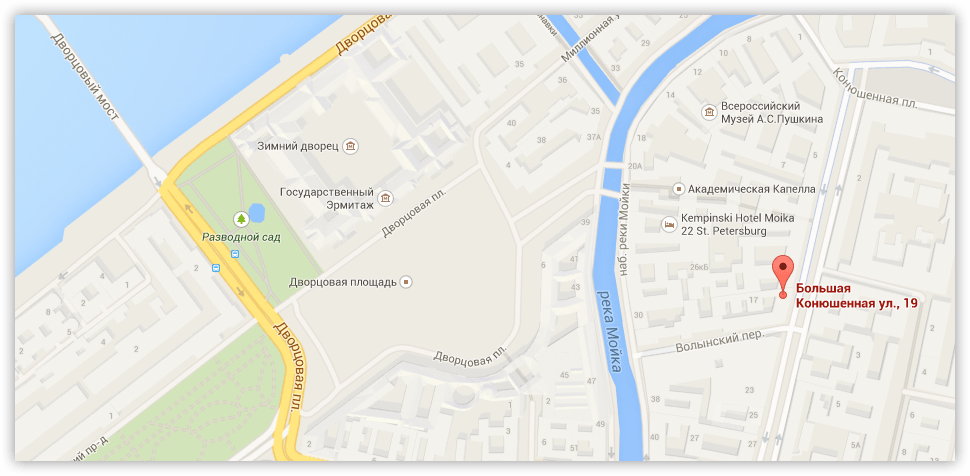
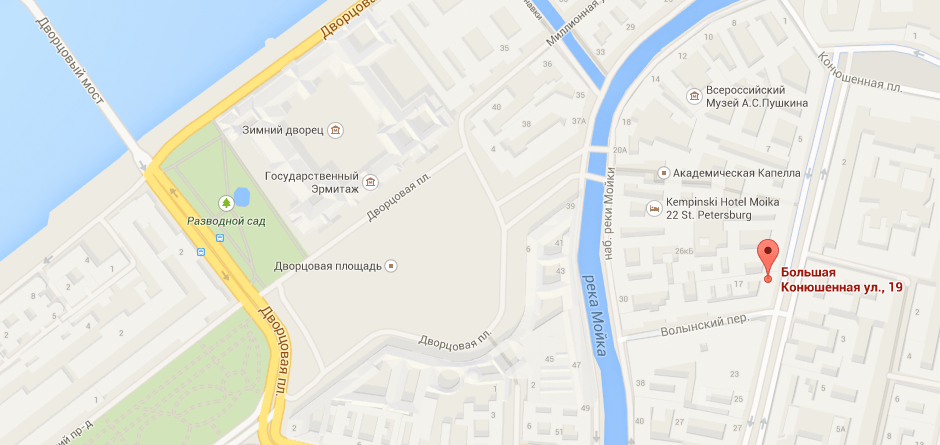
Модальные окна

diff --git a/index.html b/index.html
@@ -403,25 +403,29 @@
 		</footer>
 		<section class="modal modal-callback">	<!--Форма обратной связи-->
 			<h2 class="visually-hidden">Напишите нам</h2>
-			<form action="" method="post">		
-			
-				<label for="callback-name">Ваше имя:</label>
-				<input id="callback-name" type="text" name="name" value="" placeholder="Имя Фамилия"/>
-
-				<label for="callback-email">Ваш e-mail:</label>
-				<input id="callback-email" type="email" name="email" value="" placeholder="email@example.com"/>
-
-				<label for="callback-text">Текст письма:</label>
-				<textarea id="callback-text"  type="text" name="message" value="" placeholder="В свободной форме"/></textarea>				
-				
-				<button type="submit">Отправить</button>
+			<form class="callback-form" action="" method="post">		
+				<div>
+					<label for="callback-name">Ваше имя:</label>
+					<input id="callback-name" type="text" name="name" value="" placeholder="Имя Фамилия"/>
+				</div>
+				<div>
+					<label for="callback-email">Ваш e-mail:</label>
+					<input id="callback-email" type="email" name="email" value="" placeholder="email@example.com"/>
+				</div>
+				<div>
+					<label for="callback-text">Текст письма:</label>
+					<textarea id="callback-text"  type="text" name="message" value="" placeholder="В свободной форме"/></textarea>	
+				</div>
+				<div class="send">
+					<button  class="button--red" type="submit">Отправить</button>
+				</div>
 			</form>
-			<button type="button">Закрыть</button>
+			<button class="modal-close" type="button"><span class="visually-hidden">Закрыть</span></button>
 		</section>
-		<section class="big-map">	<!--Карта для проезда-->
+		<section class="modal modal-map">	<!--Карта для проезда-->
 			<h2 class="visually-hidden">Как до нас добраться</h2>
 			<img src="map.png" width="940" height="450" alt="Магазин по адресу г.Санкт-Петербург, ул.Б.Конюшенная, д.19/8">
-			<button type="button">Закрыть</button>
+			<button class="modal-close" type="button"><span class="visually-hidden">Закрыть</span></button>
 		</section>
 	</body>
 </html>

diff --git a/css/style.css b/css/style.css
@@ -59,6 +59,10 @@ a {
 	box-shadow: 0 5px 1px rgb(181,41,51);
 }
 
+.main-logo:hover {
+
+}
+
 .main-header {
 	background-color: rgb(243,247,248);
 }
@@ -763,4 +767,116 @@ footer {
 .callback {
 	display: flex;
 	justify-content: space-between;
+}
+
+
+/*----модальные окна----*/
+
+.modal {
+	margin: 30px auto;
+	position: relative;
+	box-shadow: 0 30px 50px rgba(0, 0, 0, 0.7);
+}
+
+.modal-callback {
+	width: 620px;
+	border-top: 7px solid rgb(255,82,87);
+
+}
+
+.callback-form {
+	display: flex;
+	flex-wrap: wrap;
+	justify-content: space-between;
+	padding-left: 80px;
+	padding-right: 80px;
+	padding-top: 55px;
+}
+
+.callback-form div {
+	margin-bottom: 20px;
+
+}
+
+.callback-form label {
+	display: block;
+	margin-bottom: 10px;
+	font-size: 18px;
+	line-height: 18px;
+	font-family: Cuprum, Arial, sans-serif;
+}
+
+.callback-form textarea {
+	width: 460px;
+	height: 114px;
+	padding: 13px 15px;
+}
+
+.callback-form input {
+	width: 220px;
+	padding: 10px 15px;
+}
+
+.callback-form input[type="text"],
+.callback-form input[type="email"],
+.callback-form textarea[type="text"] {
+	border: 2px solid rgb(215,220,220);
+	font-size: 13px;
+	line-height: 18px;
+	font-family: "PT Sans", "Arial", sans-serif;
+}
+
+.callback-form input:hover,
+.callback-form textarea:hover {
+	outline: none;
+	border: 2px solid rgb(181,181,181);
+}
+
+.callback-form input:focus,
+.callback-form textarea:focus {
+	outline: none;
+	border: 2px solid rgb(238,54,67);
+}
+
+.send {
+
+}
+
+.send button{
+	padding: 10px 199px;
+	border: 0;
+}
+
+.modal-close {
+	width: 21px;
+	height: 21px;
+	border: 0;
+	cursor: pointer;
+	position: absolute;
+	top: 9px;
+	right: 9px;
+}
+
+.modal-close::before,
+.modal-close::after {
+	content: "";
+	position: absolute;
+	top: 9px;
+	left: -1px;
+	width: 23px;
+	height: 4px;
+	background-color: rgb(238,54,67);
+}
+
+.modal-close::before {
+	transform: rotate(45deg);
+}
+
+.modal-close::after {
+	transform: rotate(-45deg);
+}
+
+.modal-map {
+	width: 940px;
+	height: 445px;
 }
